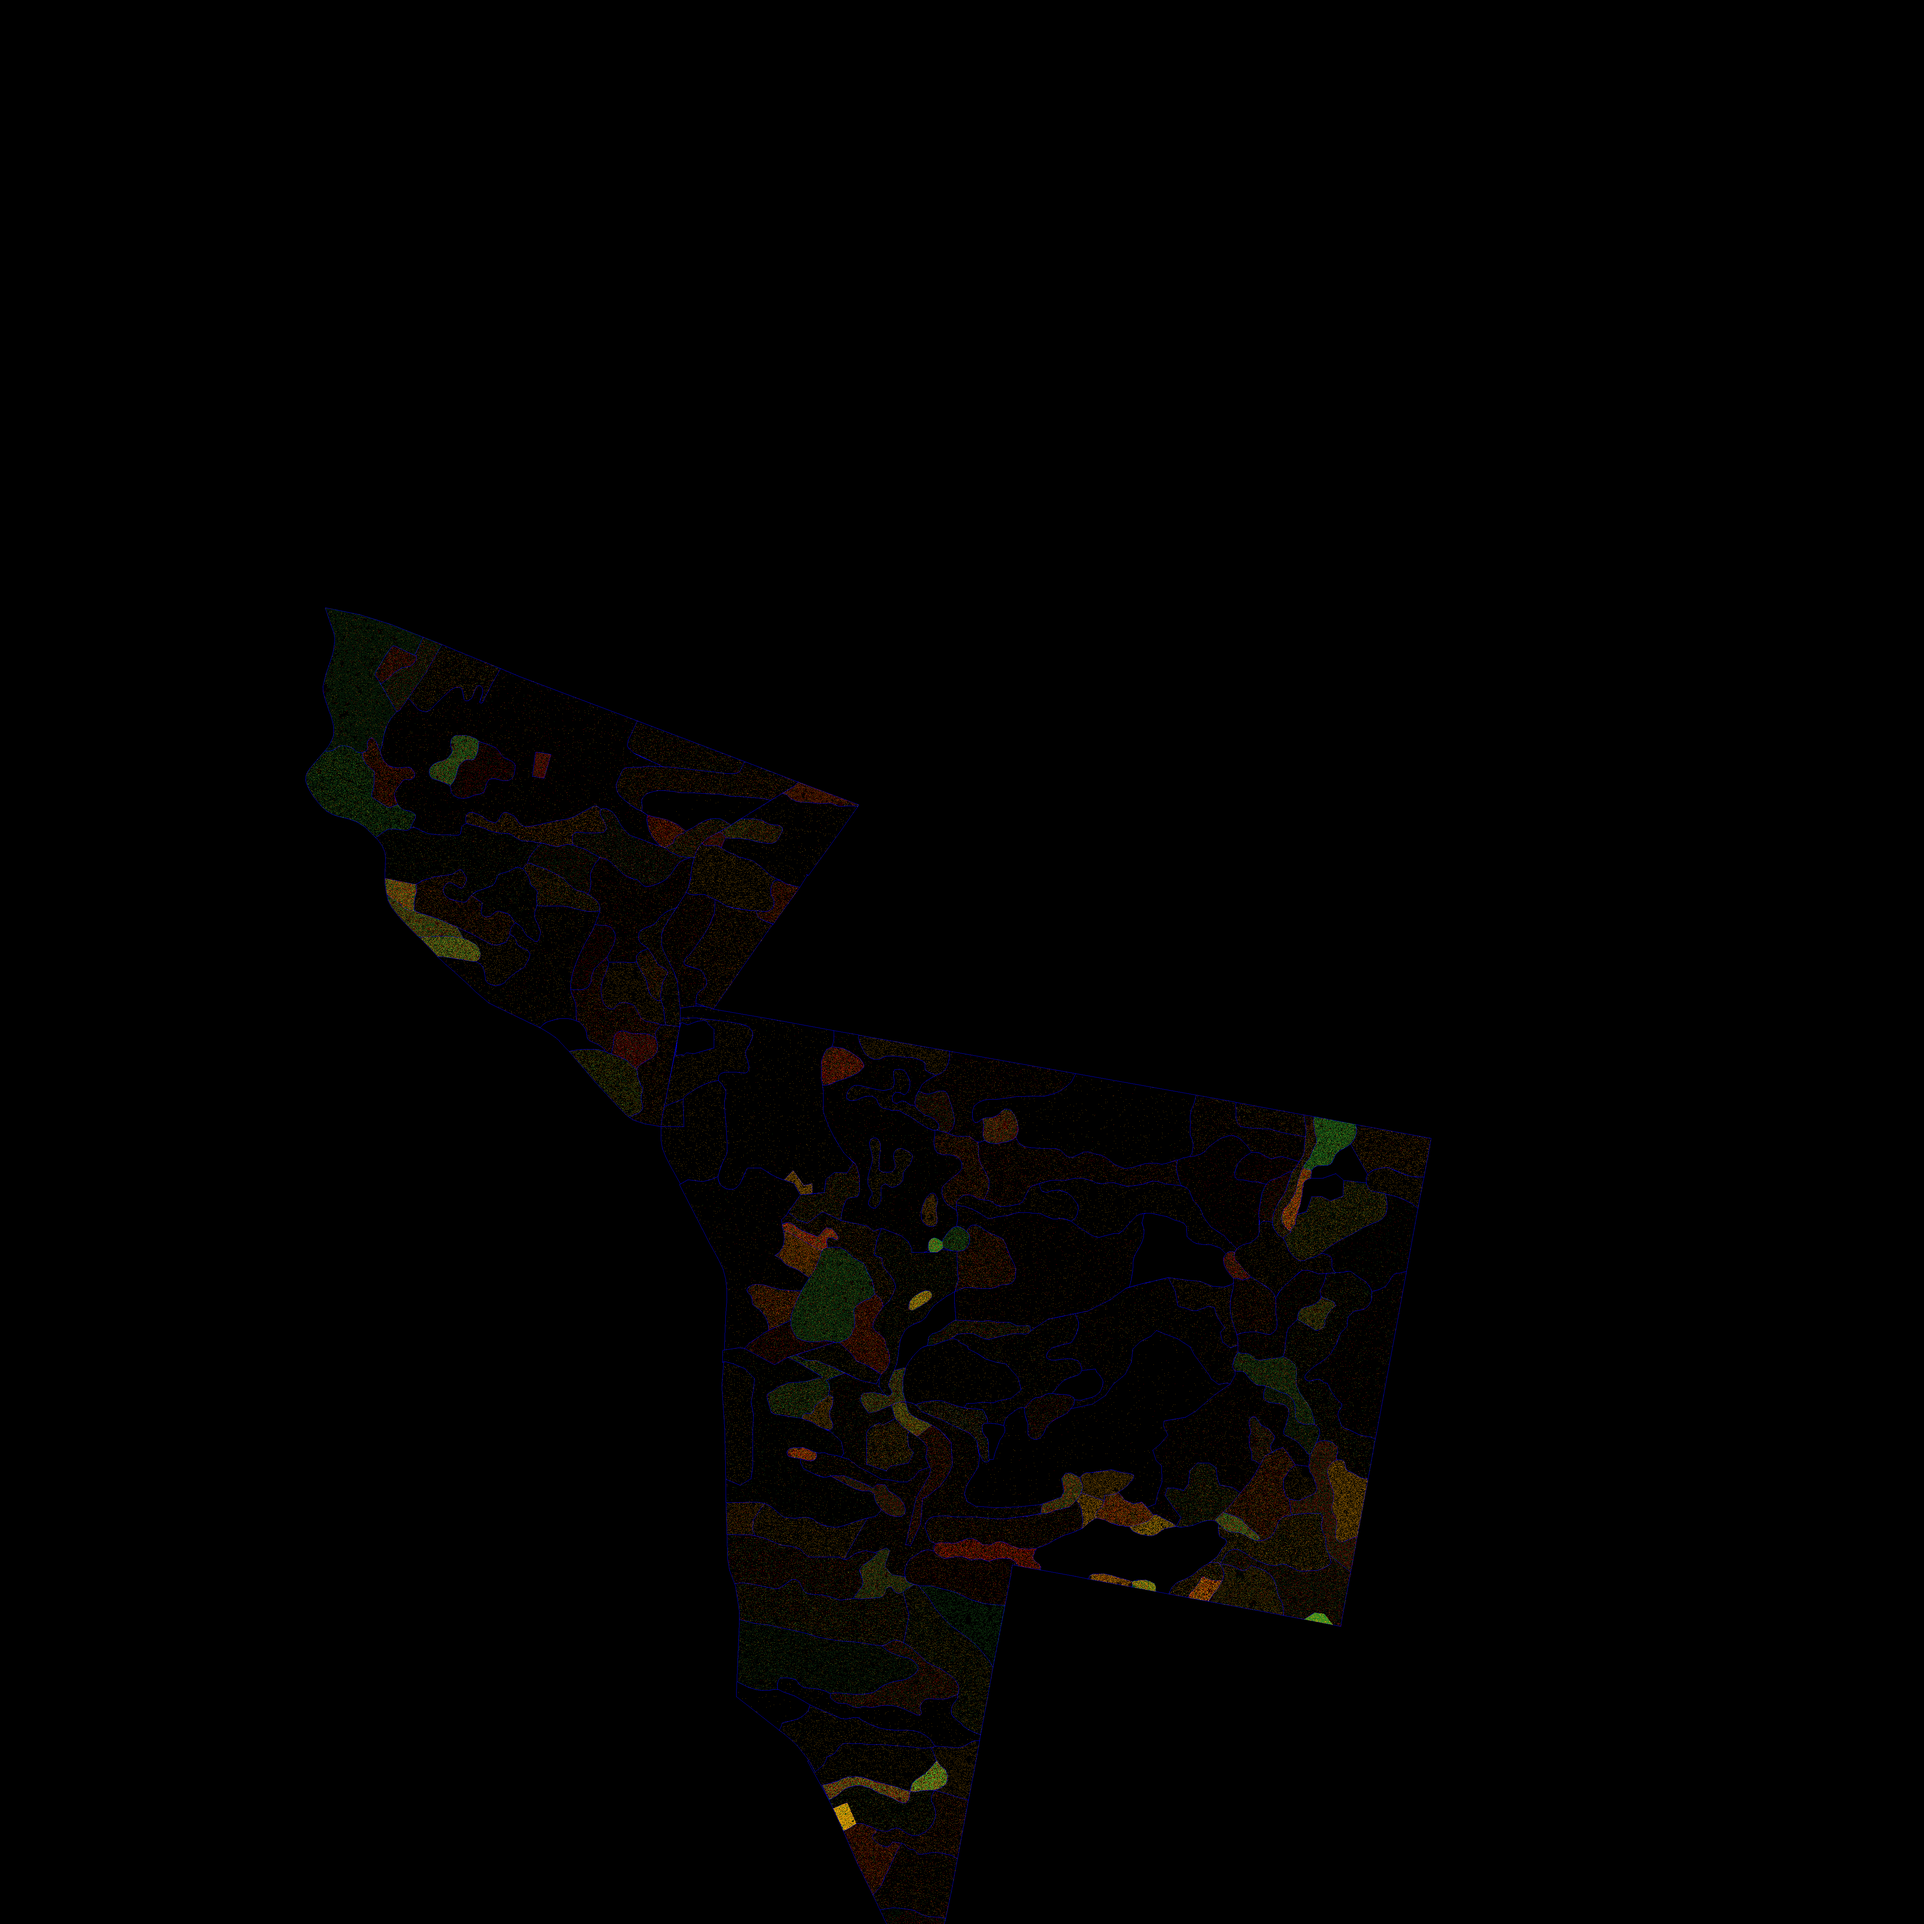
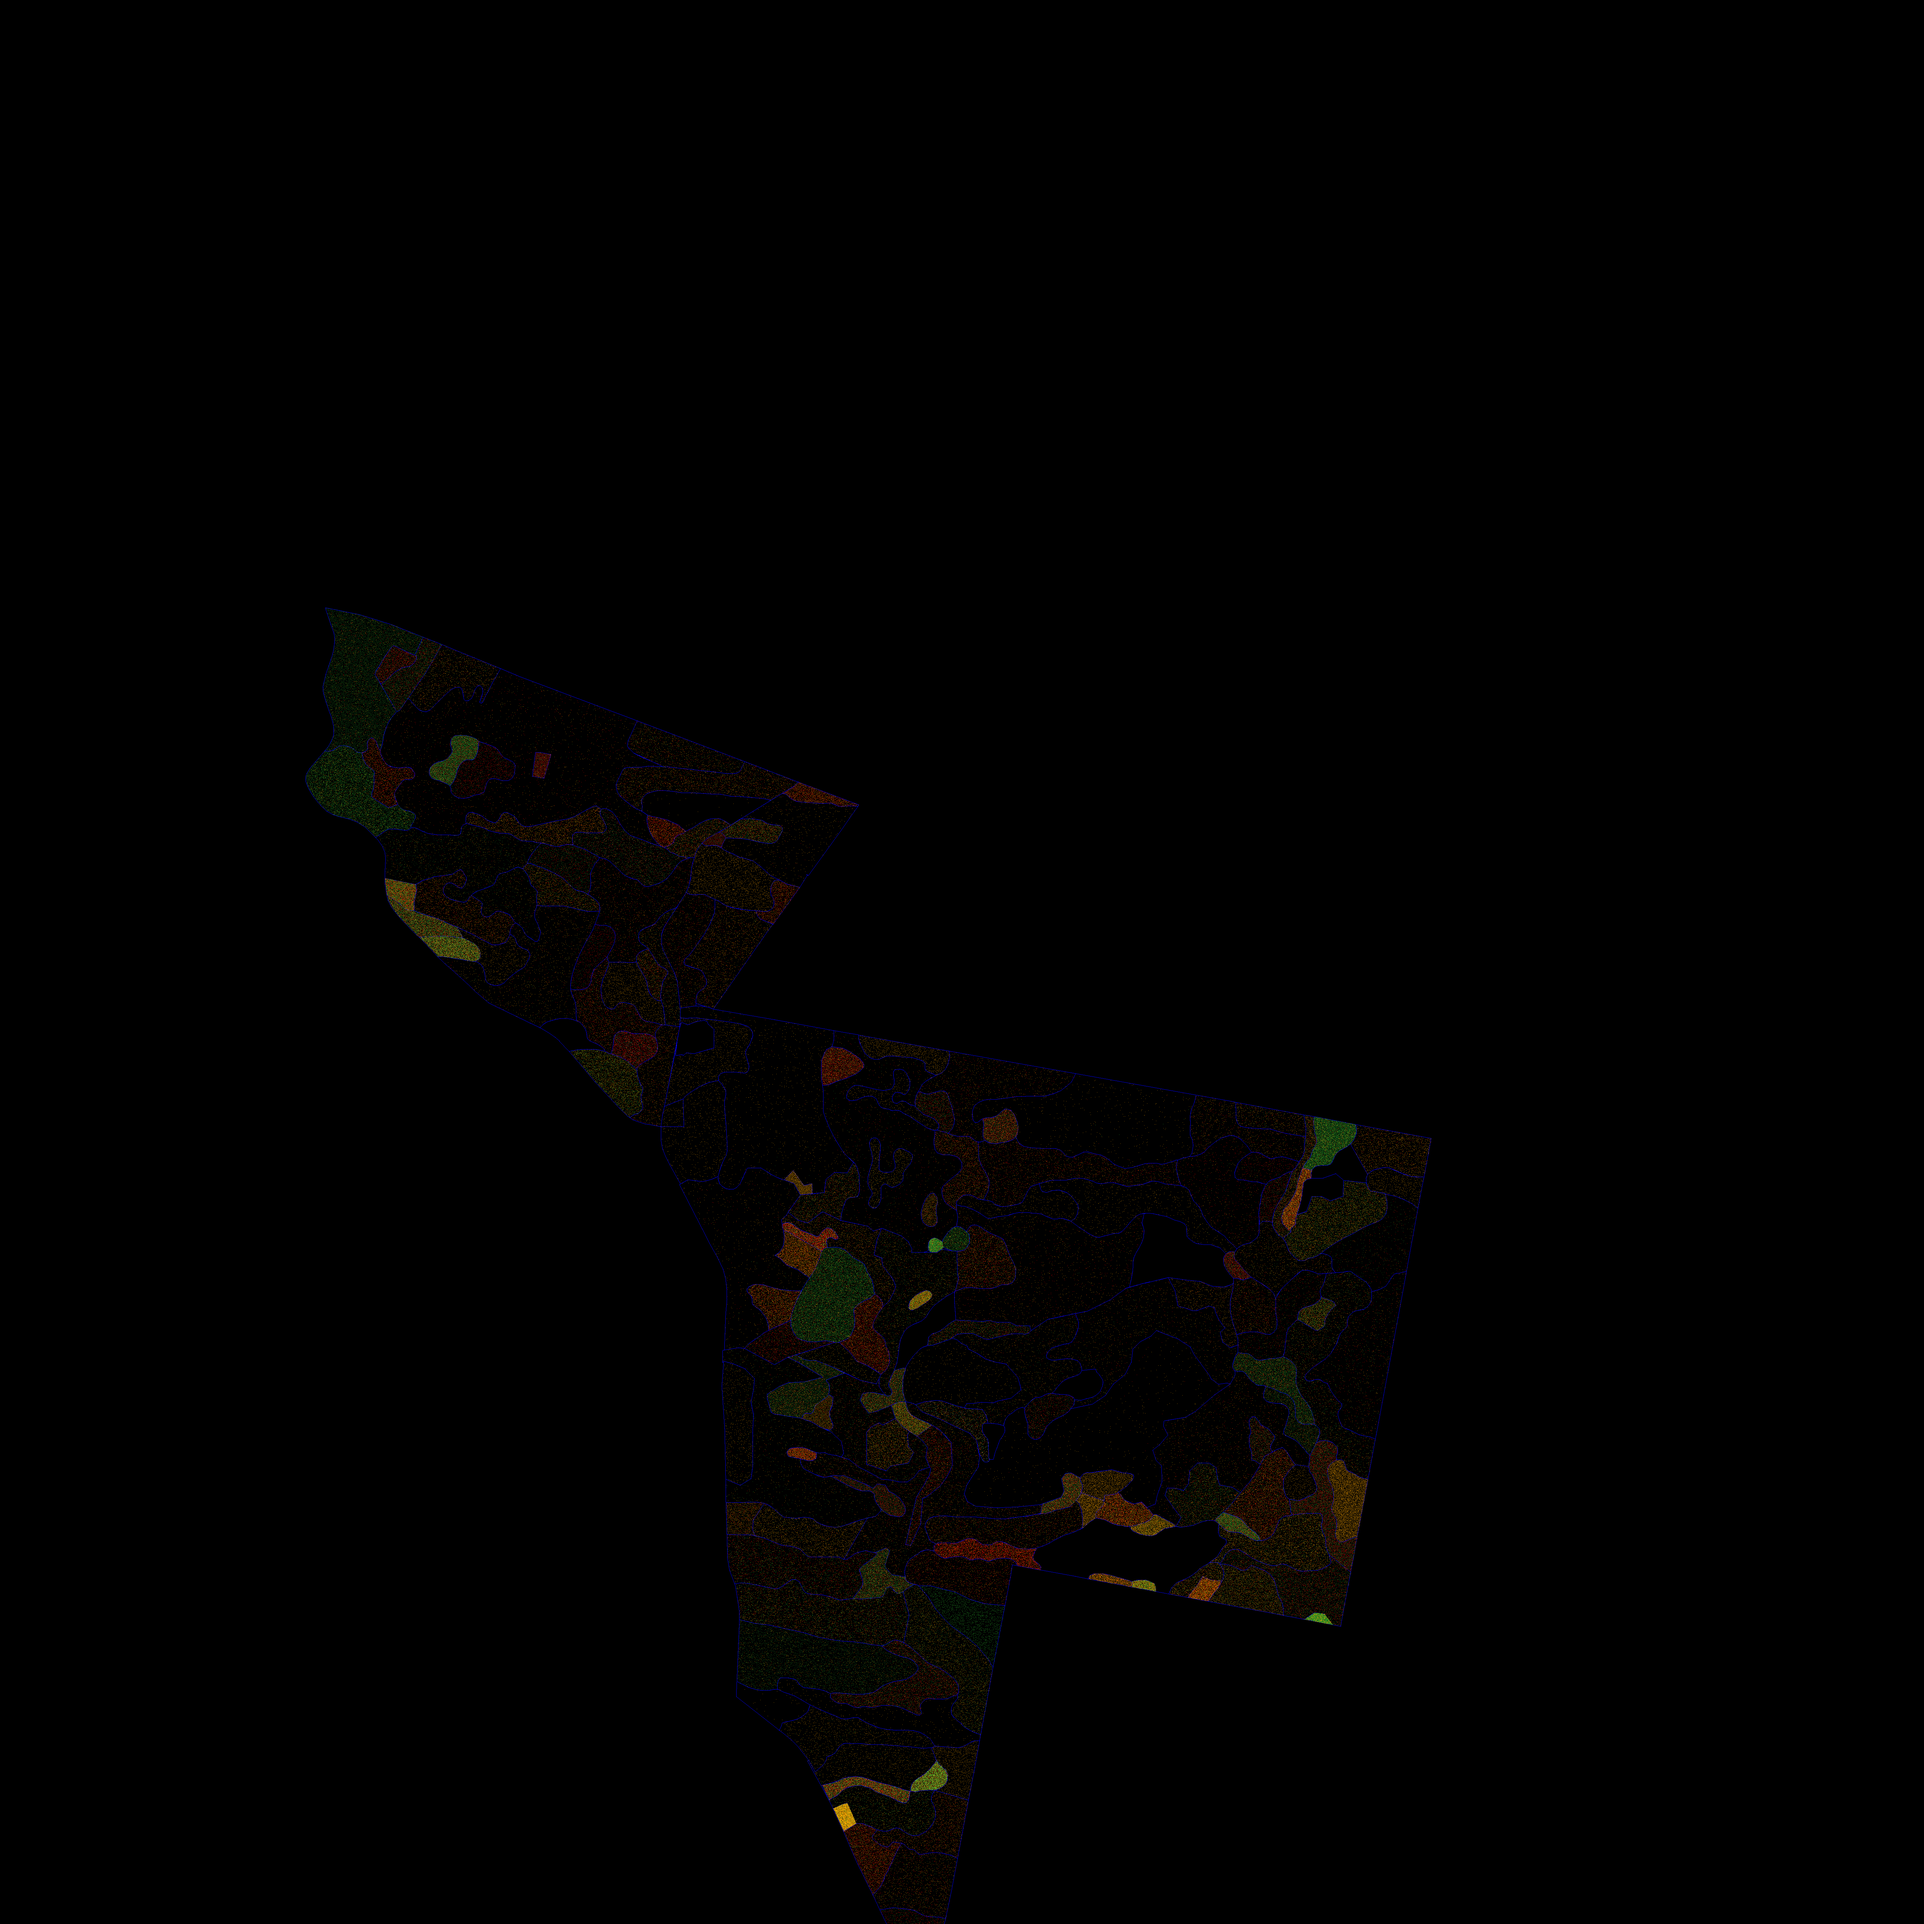
using poisson with_samples(10)

diff --git a/src/forest_property/forest_property_data.rs b/src/forest_property/forest_property_data.rs
@@ -1,5 +1,6 @@
 use core::f64;
 use std::fs::{self, File};
+use rayon::iter::{IntoParallelIterator, IntoParallelRefIterator, ParallelIterator};
 use serde::{Deserialize, Serialize};
 use super::{geometry::PolygonGeometry, stand::{Stand, Stands}};
 
@@ -139,11 +140,11 @@ impl RealEstate {
         let parcels = &self.parcels.parcel;
 
         let stands_data: Vec<Stand> = parcels
-            .iter()
-            .flat_map(|parcel: &Parcel| {
+            .into_par_iter()
+            .map(|parcel: &Parcel| {
                 let stands: Vec<Stand> = parcel.stands.stand.iter().map( | f| f.to_owned().compute_polygon().to_owned()).collect();
                 stands
-            })
+            }).flatten()
             .collect();
 
         stands_data
@@ -396,17 +397,7 @@ pub struct TreeStandDataDate {
     #[serde(rename = "TreeStandSummary")]
     pub tree_stand_summary: Option<TreeStandSummary>,
 }
-/*            "TreeStratum": {
-  "ChangeState": 0,
-  "StratumNumber": 0,
-  "TreeSpecies": 1,
-  "Storey": 1,
-  "Age": 90,
-  "BasalArea": 2,
-  "MeanDiameter": 31,
-  "MeanHeight": 23,
-  "DataSource": 0
-} */
+
 #[derive(Serialize, Deserialize, Debug, Clone, PartialEq)]
 pub struct DeadTreeStrata {
     #[serde(rename = "$text")]
@@ -441,41 +432,43 @@ pub struct TreeStrata {
     pub tree_stratum: Vec<TreeStratum>,
 }
 
+
+
 #[derive(Default, Debug, Clone, PartialEq, Serialize, Deserialize)]
 #[serde(rename_all = "camelCase")]
 pub struct TreeStratum {
     #[serde(rename = "@id", default)]
     pub id: String,
     #[serde(rename = "ChangeState")]
-    pub change_state: i64,
+    pub change_state: u8,
     #[serde(rename = "StratumNumber")]
-    pub stratum_number: i64,
+    pub stratum_number: u32,
     #[serde(rename = "TreeSpecies")]
-    pub tree_species: i64,
+    pub tree_species: u8,
     #[serde(rename = "Storey")]
-    pub storey: i64,
+    pub storey: u32,
     #[serde(rename = "Age")]
-    pub age: i64,
+    pub age: u8,
     #[serde(rename = "StemCount")]
-    pub stem_count: Option<i64>,
+    pub stem_count: Option<i32>,
     #[serde(rename = "MeanDiameter")]
-    pub mean_diameter: Option<f64>,
+    pub mean_diameter: Option<f32>,
     #[serde(rename = "MeanHeight")]
-    pub mean_height: f64,
+    pub mean_height: f32,
     #[serde(rename = "DataSource")]
-    pub data_source: i64,
+    pub data_source: u32,
     #[serde(rename = "BasalArea")]
     pub basal_area: Option<f64>,
     #[serde(rename = "SawLogPercent")]
-    pub saw_log_percent: Option<f64>,
+    pub saw_log_percent: Option<f32>,
     #[serde(rename = "SawLogVolume")]
-    pub saw_log_volume: Option<f64>,
+    pub saw_log_volume: Option<f32>,
     #[serde(rename = "VolumeGrowth")]
-    pub volume_growth: Option<f64>,
+    pub volume_growth: Option<f32>,
     #[serde(rename = "Volume")]
-    pub volume: Option<f64>,
+    pub volume: Option<f32>,
     #[serde(rename = "PulpWoodVolume")]
-    pub pulp_wood_volume: Option<f64>,
+    pub pulp_wood_volume: Option<f32>,
 }
 
 #[derive(Serialize, Deserialize, Debug, Clone, PartialEq)]
@@ -491,21 +484,21 @@ pub struct TreeStandSummary {
     #[serde(rename = "ChangeState")]
     pub change_state: String,
     #[serde(rename = "MeanAge")]
-    pub mean_age: f64,
+    pub mean_age: f32,
     #[serde(rename = "BasalArea")]
-    pub basal_area: f64,
+    pub basal_area: f32,
     #[serde(rename = "StemCount")]
-    pub stem_count: i64,
+    pub stem_count: u32,
     #[serde(rename = "MeanDiameter")]
-    pub mean_diameter: f64,
+    pub mean_diameter: f32,
     #[serde(rename = "MeanHeight")]
-    pub mean_height: f64,
+    pub mean_height: f32,
     #[serde(rename = "Volume")]
-    pub volume: f64,
+    pub volume: f32,
     #[serde(rename = "VolumeGrowth")]
-    pub volume_growth: f64,
+    pub volume_growth: f32,
     #[serde(rename = "ValueGrowthPercent")]
-    pub value_growth_percent: Option<f64>,
+    pub value_growth_percent: Option<f32>,
     #[serde(rename = "Value")]
     pub value: Option<String>,
 }

diff --git a/src/geometry_utils.rs b/src/geometry_utils.rs
@@ -18,7 +18,7 @@ pub fn get_min_max_coordinates(p: &Polygon<f64>) -> (f64, f64, f64, f64) {
     (min_x, max_x, min_y, max_y)
 }
 
-fn generate_radius(mean_height: f64, divisor: f64) -> f64 {
+fn generate_radius(mean_height: f32, divisor: f32) -> f32 {
     // Calculate the radius based on the mean height of the tree species
     mean_height / divisor
 }
@@ -38,7 +38,7 @@ pub fn generate_random_trees(p: &Polygon, strata: &TreeStrata) -> Vec<Tree> {
             let radius = generate_radius(stratum.mean_height, divisor);
 
             let trees_strata: Vec<Tree> = Poisson2D::new()
-                .with_samples(2)
+                .with_samples(10)
                 .with_dimensions([width, height], radius.into())
                 .iter()
                 .filter_map(|pair: [f64; 2]| {

diff --git a/src/forest_property/tree.rs b/src/forest_property/tree.rs
@@ -1,12 +1,12 @@
 #[derive(Default, Debug, Clone)]
 pub struct Tree {
-    species: i64,
-    mean_height: f64,
+    species: u8,
+    mean_height: f32,
     position: (f64, f64, f64),
 }
 
 impl Tree {
-    pub fn new(species: i64, mean_height: f64, position: (f64, f64, f64)) -> Self {
+    pub fn new(species: u8, mean_height: f32, position: (f64, f64, f64)) -> Self {
         Tree {
             species,
             mean_height,
@@ -14,7 +14,7 @@ impl Tree {
         }
     }
 
-    pub fn species(&self) -> i64 {
+    pub fn species(&self) -> u8 {
         self.species
     }
 

diff --git a/src/main.rs b/src/main.rs
@@ -12,7 +12,7 @@ use image::Rgb;
 #[cfg(test)]
 use std::fs;
 // Get color based on species number
-fn get_color_by_species(number: i64) -> Rgb<u8> {
+fn get_color_by_species(number: u8) -> Rgb<u8> {
     match number {
         // Coniferous Trees (Shades of Orange and Red)
         1 => Rgb([255, 165, 0]),    // Orange - Mänty

diff --git a/src/forest_property/stand.rs b/src/forest_property/stand.rs
@@ -91,7 +91,7 @@ impl Stand {
         polygon
     }
 
-    pub fn summary_stem_count(&self) -> Option<i64> {
+    pub fn summary_stem_count(&self) -> Option<u32> {
 
         let last_data_date = match self.get_last_tree_stand_data_date() {
             Some(data) => data,
